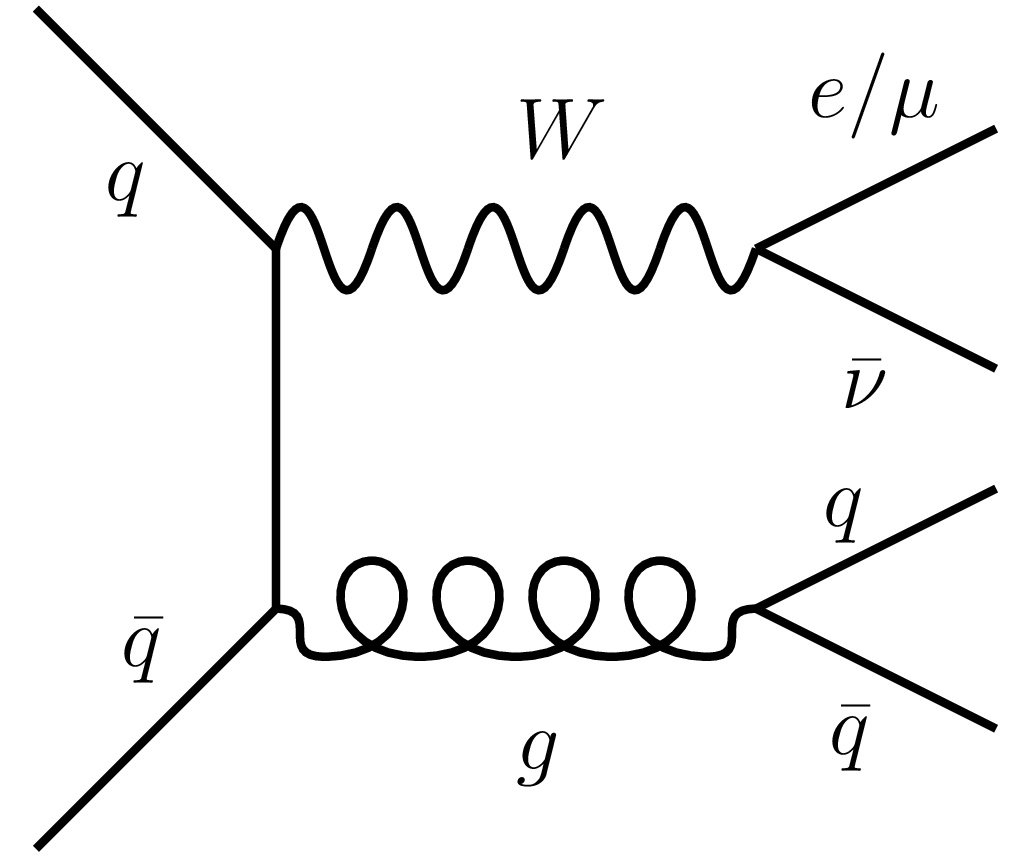
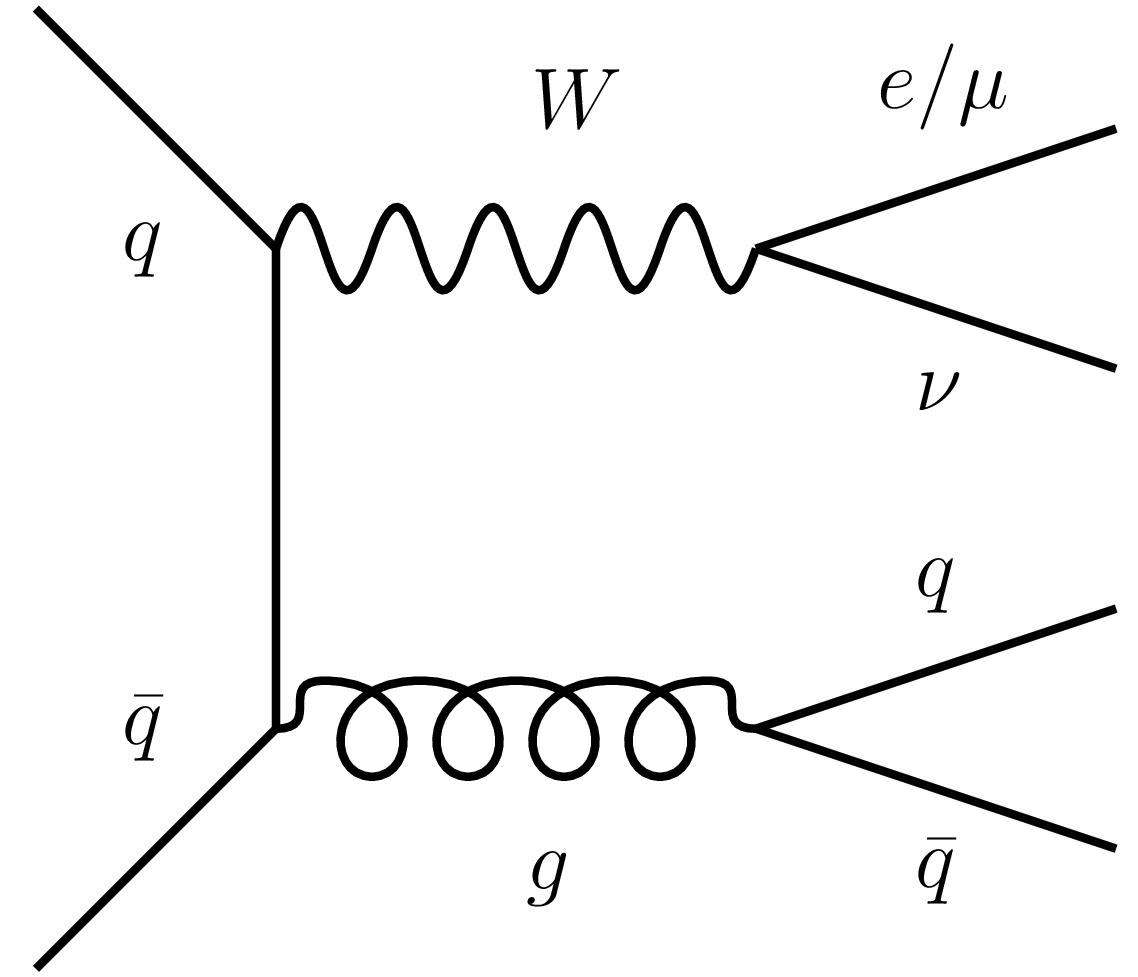
correct the W+jets description and reproduce the background plots

diff --git a/NTHU_en/chapter_estimation_strategy.tex b/NTHU_en/chapter_estimation_strategy.tex
@@ -3,7 +3,7 @@
 
 \chapter{Background Estimation Strategy}
 \label{chap:estimation_strategy}
-Some SM processes show the same signature of the DM model, becoming the background in the analysis. The main background processes of the analysis are $Z$($\nu\nu$) + jets, $W$($l\nu$) + jets and $t\bar{t}$, shown in \cref{fig:Bkg-Processes}. In the $Z$($\nu\nu$) + jets process, the undetectable neutrinos in the final state are regarded as the missing energy. Thus once the jets are tagged as $b$-jets, the case will be background. In the $W$($l\nu$) + jets process, once the lepton is misidentified as the missing energy and the jets are tagged as $b$-jets as mentioned previously, the procedure will be interference as well. In the $t\bar{t}$ case, if both the leptons are misidentified, the process will be background.
+Some SM processes show the same signature of the DM model, becoming the background in the analysis. The main background processes of the analysis are $Z$($\nu\nu$) + jets, $W$($l\nu$) + jets and $t\bar{t}$, shown in \cref{fig:Bkg-Processes}. In the $Z$($\nu\nu$) + jets process, the undetectable neutrinos in the final state are regarded as the missing energy. Thus once the jets are tagged as $b$-jets, the case will be background. In the $W$($l\nu$) + jets and $t\bar{t}$ processes, once the lepton is misidentified as the missing energy, the procedure will be interference as well.
 
 \begin{figure}[!hbt]
 	\captionsetup[subfigure]{labelformat=empty}
@@ -11,21 +11,19 @@ Some SM processes show the same signature of the DM model, becoming the backgrou
 	\subcaptionbox
 	{$Z$($\nu\nu$) + jets
 		\label{fig:Bkg-Processes-fig1}}
-	{\includegraphics[width=0.3\linewidth]{Zvv.png}}
-	~
+		{\includegraphics[width=0.32\linewidth]{Zvv.png}}
 	\subcaptionbox
 	{$W$($l\nu$) + jets
 		\label{fig:Bkg-Processes-fig2}}
-	{\includegraphics[width=0.3\linewidth]{Wlv.png}}
-	~
+		{\includegraphics[width=0.32\linewidth]{Wlv.png}}
 	\subcaptionbox
 	{$t\bar{t}$
 		\label{fig:Bkg-Processes-fig3}}
-	{\includegraphics[width=0.3\linewidth]{ttbar.png}}
+		{\includegraphics[width=0.32\linewidth]{ttbar.png}}
 	\caption{The main background processes of the monoH analysis.}
 	\label{fig:Bkg-Processes}
 \end{figure}
 
-To constrain the backgrounds, the control region (CR) strategy is used. Before defining the CR, the signal region (SR) is defined as where the signals are expected to show. The SR is required to have no lepton based on the model. Then the CR is defined as the orthogonal region to the SR. There are two CRs in this analysis, the one-muon CR and the two-lepton CR. The one-muon CR contains two processes, $W$($\mu\nu$) + jets and $t\bar{t}$, constraining $W$($l\nu$) + jets and $t\bar{t}$ in the SR. It requires different number of misidentified leptons, for $W$($l\nu$) + jets, one misidentified lepton in the SR but none in the one-muon CR, and for $t\bar{t}$, two misidentified leptons in the SR but one in the one-muon CR. The two-lepton CR exploits the $Z$($ll$) + jets, constraining the $Z$($\nu\nu$) + jets process. Because it is not easy to simulate the misidentification as well as the kinematics of invisible neutrinos, these two CRs can constrain the background processes well.
+To constrain the backgrounds, the control region (CR) strategy is used. Before defining the CR, the signal region (SR) is defined as where the signals are expected to show. The SR is required to have no lepton based on the model. Then the CR is defined as the orthogonal region to the SR. There are two CRs in this analysis, the one-muon CR and the two-lepton CR. The one-muon CR contains two processes, $W$($\mu\nu$) + jets and $t\bar{t}$, constraining $W$($l\nu$) + jets and $t\bar{t}$ in the SR. It requires different number of misidentified leptons, one in the SR but none in the one-muon CR. The two-lepton CR exploits the $Z$($ll$) + jets, constraining the $Z$($\nu\nu$) + jets process. Because it is not easy to simulate the misidentification as well as the kinematics of invisible neutrinos, these two CRs can constrain the background processes well.
 
 \end{document}

diff --git a/NTHU_en/chapter_Z_bkg_estimation.tex b/NTHU_en/chapter_Z_bkg_estimation.tex
@@ -12,22 +12,20 @@ To estimate the $Z$($\nu\nu$) + jets background in the SR, the two-lepton CR is 
 	\subcaptionbox
 		{$150\, \mathrm{GeV} < p^V_T < 200\, \mathrm{GeV}$
 		\label{fig:2-lep-prefit-fig1}}
-		{\includegraphics[width=0.45\linewidth]{prefit-150-200.pdf}}
-	~
+		{\includegraphics[width=0.47\linewidth]{prefit-150-200.pdf}}
 	\subcaptionbox
 		{$200\, \mathrm{GeV} < p^V_T < 350\, \mathrm{GeV}$
 		\label{fig:2-lep-prefit-fig2}}
-		{\includegraphics[width=0.45\linewidth]{prefit-200-350.pdf}}
+		{\includegraphics[width=0.47\linewidth]{prefit-200-350.pdf}}
 	\vspace{\baselineskip}
 	\subcaptionbox
 		{$350\, \mathrm{GeV} < p^V_T < 500\, \mathrm{GeV}$
 		\label{fig:2-lep-prefit-fig3}}
-		{\includegraphics[width=0.45\linewidth]{prefit-350-500.pdf}}
-	~
+		{\includegraphics[width=0.47\linewidth]{prefit-350-500.pdf}}
 	\subcaptionbox
 		{$p^V_T > 500\, \mathrm{GeV}$
 		\label{fig:2-lep-prefit-fig4}}
-		{\includegraphics[width=0.45\linewidth]{prefit-500.pdf}}
+		{\includegraphics[width=0.47\linewidth]{prefit-500.pdf}}
 	\caption{The pre-fit data/MC comparison of $m_{bb}$ distribution. The plots are split into four $p^V_T$ regions for fitting.}
 	\label{fig:2-lep-prefit}
 \end{figure}
@@ -44,7 +42,7 @@ To estimate the $Z$($\nu\nu$) + jets background in the SR, the two-lepton CR is 
 	{The distribution of $p^V_T$.
 		\label{fig:shape-uncertainty-fig2}}
 		{\includegraphics[width=0.65\linewidth]{shape-uncertainty-PTV.pdf}}
-	\caption{The shape uncertainty and the normalized distribution of $m_{bb}$ and $p^V_T$. The shape uncertainty is derived by previous $VH$($bb$) analysis and gives a reasonable estimation.}
+	\caption{The shape uncertainty and the normalized distribution of (a) $m_{bb}$ and (b) $p^V_T$. The shape uncertainty is derived by previous $VH$($bb$) analysis and gives a reasonable estimation.}
 	\label{fig:shape-uncertainty}
 \end{figure}
 
@@ -54,22 +52,20 @@ To estimate the $Z$($\nu\nu$) + jets background in the SR, the two-lepton CR is 
 	\subcaptionbox
 	{$150\, \mathrm{GeV} < p^V_T < 200\, \mathrm{GeV}$
 		\label{fig:2-lep-postfit-fig1}}
-		{\includegraphics[width=0.45\linewidth]{postfit-150-200.pdf}}
-	~
+		{\includegraphics[width=0.47\linewidth]{postfit-150-200.pdf}}
 	\subcaptionbox
 	{$200\, \mathrm{GeV} < p^V_T < 350\, \mathrm{GeV}$
 		\label{fig:2-lep-postfit-fig2}}
-		{\includegraphics[width=0.45\linewidth]{postfit-200-350.pdf}}
+		{\includegraphics[width=0.47\linewidth]{postfit-200-350.pdf}}
 	\vspace{\baselineskip}
 	\subcaptionbox
 	{$350\, \mathrm{GeV} < p^V_T < 500\, \mathrm{GeV}$
 		\label{fig:2-lep-postfit-fig3}}
-		{\includegraphics[width=0.45\linewidth]{postfit-350-500.pdf}}
-	~
+		{\includegraphics[width=0.47\linewidth]{postfit-350-500.pdf}}
 	\subcaptionbox
 	{$p^V_T > 500\, \mathrm{GeV}$
 		\label{fig:2-lep-postfit-fig4}}
-		{\includegraphics[width=0.45\linewidth]{postfit-500.pdf}}
+		{\includegraphics[width=0.47\linewidth]{postfit-500.pdf}}
 	\caption{The post-fit data/MC comparison of $m_{bb}$ distribution. The plots are split into four $p^V_T$ regions for fitting.}
 	\label{fig:2-lep-postfit}
 \end{figure}

diff --git a/NTHU_en/main.tex b/NTHU_en/main.tex
@@ -25,7 +25,6 @@
             \todoInfo{explain transverse}
             \todoInfo{abbreviation}
             \todoInfo{eta, phi, R definition}
-            \todoInfo{reproduce the feynman diagrams (not anti-q)}
             \todoUnsure{Unsure}
             \todoChange{Change}
             \todoInfo{Information}
